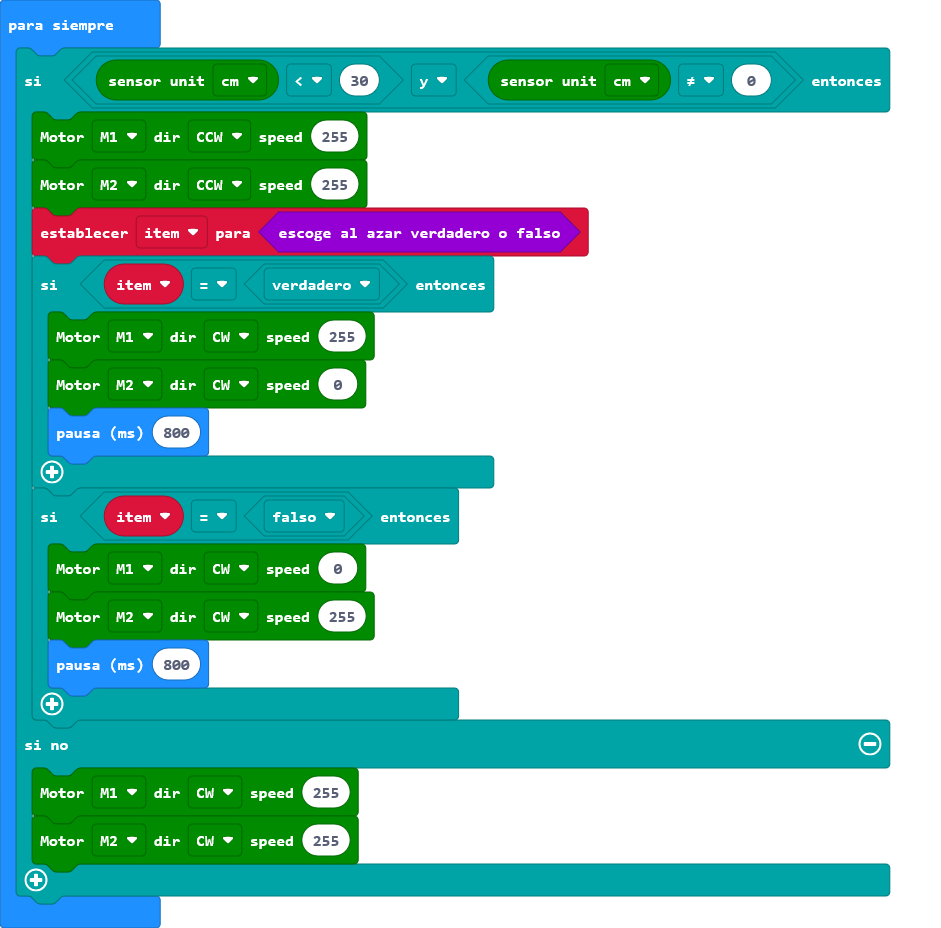
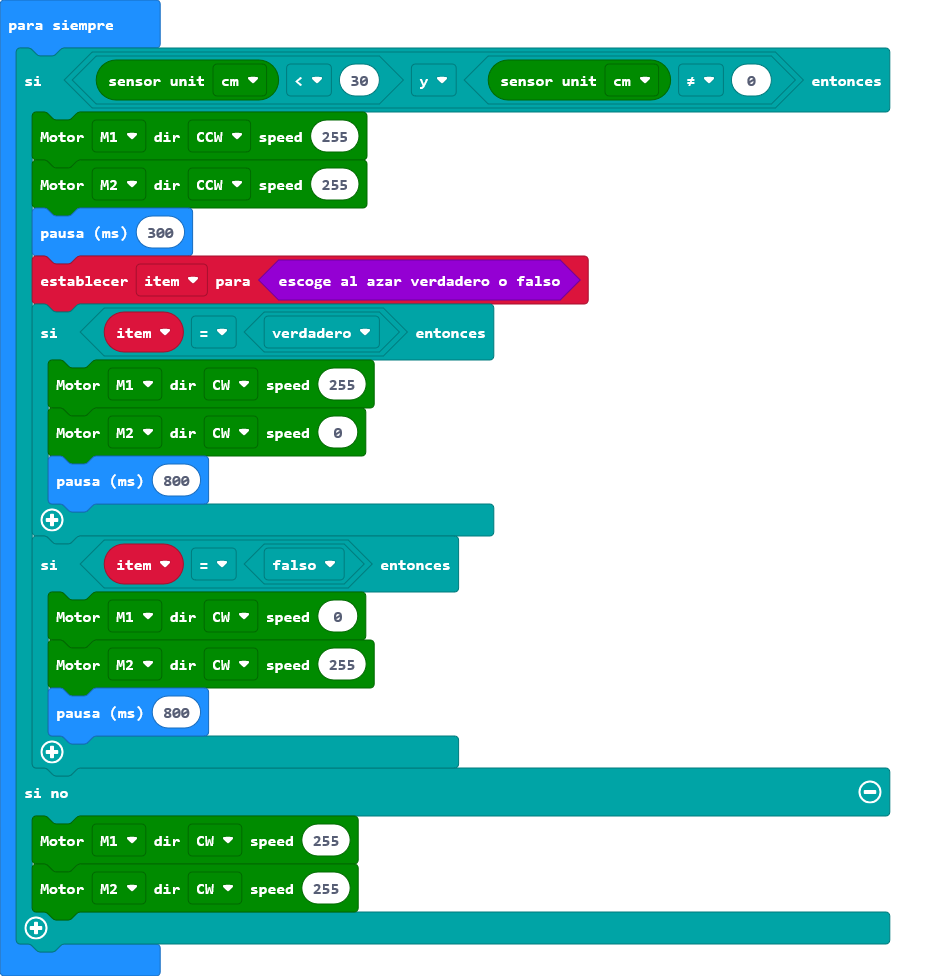
Update main.blocks, main.ts

Changed region(s): [[0.0, 0.0, 0.9554, 0.9688]]

diff --git a/main.ts b/main.ts
@@ -3,6 +3,7 @@ basic.forever(function () {
     if (maqueen.sensor(PingUnit.Centimeters) < 30 && maqueen.sensor(PingUnit.Centimeters) != 0) {
         maqueen.MotorRun(maqueen.aMotors.M1, maqueen.Dir.CCW, 255)
         maqueen.MotorRun(maqueen.aMotors.M2, maqueen.Dir.CCW, 255)
+        basic.pause(300)
         item = Math.randomBoolean()
         if (item == true) {
             maqueen.MotorRun(maqueen.aMotors.M1, maqueen.Dir.CW, 255)
